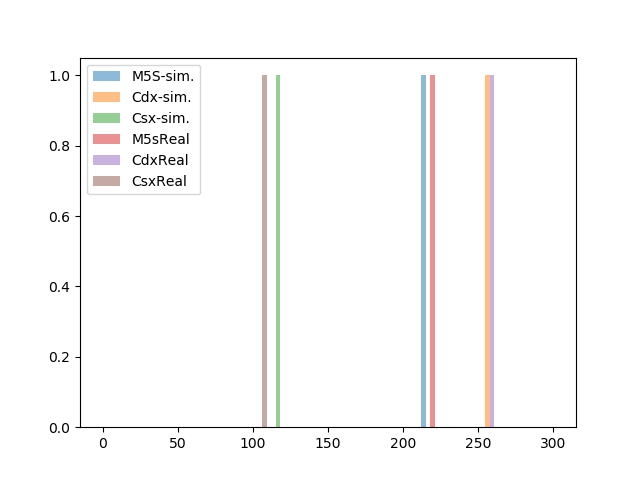
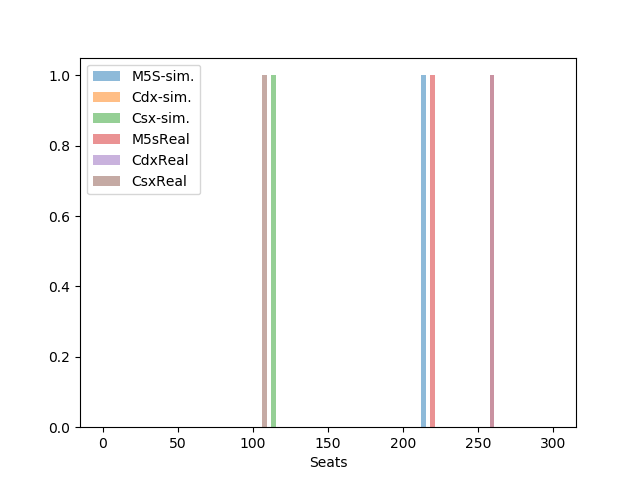
Final version of the code(only the comments miss)

Changed region(s): [[0.75, 0.1562, 0.7812, 0.9062], [0.4062, 0.1562, 0.4375, 0.9062], [0.4688, 0.9375, 0.5312, 1.0]]

diff --git a/Ising.py b/Ising.py
@@ -20,7 +20,7 @@ class Ising:
 	
 	def __init__(self,dimension,T=.1):
 		self.dimension = dimension
-		self.lattice  = np.array([[rd.choice([-0.5,0.5]) for i in range(dimension)]for j in range(dimension)])
+		self.lattice  = np.array([[rd.choice([-1,1]) for i in range(dimension)]for j in range(dimension)])
 		self.T = T
 
 	def Make_move(self):
@@ -58,10 +58,16 @@ class Ising:
 				if self.lattice[i,j]>0:
 					Lattice[i][j]=Label(bg='black',width=2,height=2)
 					Lattice[i][j].grid(row=i,column=j)
-		mainloop()			
+		mainloop()
+			
+	def show_evolution(self):
+		for i in range(10001):
+			self.Make_move()
+			if (i%2000 == 0):
+				self.print_lattice_GUI()
 				
 	def Abs_Tot_Magn(self):
-		return np.abs(2*sum(sum(self.lattice))/(self.dimension*self.dimension))
+		return np.abs(sum(sum(self.lattice))/(self.dimension*self.dimension))
 	
 	def Tot_Energy(self):
 		Tot_Energy = 0
@@ -69,34 +75,14 @@ class Ising:
 			for y in range(self.dimension):
 				single_spot_energy = self.lattice[(x+1)%self.dimension,y]+self.lattice[x,(y+1)%self.dimension]+self.lattice[(x-1)%self.dimension,y]+self.lattice[x,(y-1)%self.dimension]
 				Tot_Energy        += single_spot_energy
-		return Tot_Energy/4.		
+		return abs(Tot_Energy/4.)		
 				
-	def MontSim (self,Nsteps=100000):
+	def MontSim (self,Nsteps=20000):
 		for i in range(Nsteps):
 			self.Make_move()
 			
-			procedure = Nsteps/(i+1)	
-			if procedure  in list(range(100)):
-				print(self.Abs_Tot_Magn())
-				print("{:.2f}".format(float(i/Nsteps)*100),'%\n')
-				
-
-
-
-
-
-
-
-
-
-
-
-
-
-
-
-
-
-
-
+			#procedure = Nsteps/(i+1)	
+			#if procedure  in list(range(100)):
+				#print(self.Abs_Tot_Magn())
+				#print("{:.2f}".format(float(i/Nsteps)*100),'%\n')
 				

diff --git a/Electoral_Montecarlo.py b/Electoral_Montecarlo.py
@@ -8,14 +8,8 @@ Created on Wed Oct 30 17:12:33 2019
 
 import numpy as np
 Results2018={'Movimento 5 stelle':0.327,'Centrosinistra':0.22,'Centrodestra':0.37,'LeU':0.03}
-ResultsHyp ={'Movimento 5 stelle':0.18,'Centrosinistra':0.20,'Lega':0.35,'Centrodestra':0.15}
-
-
-
-
-import numpy as np
-Results2018={'Movimento 5 stelle':0.327,'Centrosinistra':0.22,'Centrodestra':0.37,'LeU':0.03}
-ResultsHyp ={'Movimento 5 stelle':0.18,'Centrosinistra':0.20,'Lega':0.35,'Centrodestra':0.15}
+ResultsHyp1 ={'Movimento 5 stelle':0.18,'Centrosinistra':0.20,'Lega':0.35,'Centrodestra':0.15}
+ResultsHyp2 ={'Centrosinistra':0.38,'Centrodestra':0.52}
 Seats2018  ={'Movimento 5 stelle':221,'Centrosinistra':109,'Centrodestra':260,'LeU':22} #excluding abroad seats
 
 
@@ -32,7 +26,7 @@ def max_key(d):
         
 
         
-def Fill_Seats(weight_maj = 0.37,weight_prop = 0.61,Results = ResultsHyp):   
+def Fill_Seats(weight_maj = 0.37,weight_prop = 0.61,Results = Results2018):   
     seats = {key:int(Results[key]*635*weight_prop)+int(Results[key]*(1-sum(list(Results.values())))) for key in list(Results.keys())}
     for i in range (int(635*weight_maj)):
         Resultscopy = Results.copy()

diff --git a/testing_election.py b/testing_election.py
@@ -12,7 +12,7 @@ import Electoral_Montecarlo
 
 Results2018={'Movimento 5 stelle':0.327,'Centrosinistra':0.22,'Centrodestra':0.37,'Leu':0.03}
 ResultsHyp ={'Movimento 5 stelle':0.18,'Centrosinistra':0.20,'Lega':0.35,'Centrodestra':0.15}
-Seats2018  ={'Movimento 5 stelle':221,'Centrosinistra':113,'Centrodestra':260,'LeU':14} #excluding abroad seats
+Seats2018  ={'Movimento 5 stelle':221,'Centrosinistra':113,'Centrodestra':260,'Leu':14} #excluding abroad seats
 
 def test_Number_iterations(Nsteps = 10000):
 	pi = float(4*(sum([1 for i in range(10000) if((np.random.rand()*2-1)**2+(np.random.rand()*2-1)**2<1)])/10000))
@@ -31,6 +31,11 @@ def test_max_key(d = Results2018):
 def test_simulation(a = rd.choice(list(Seats2018.keys())),d = Seats2018):
 	Simulation = Electoral_Montecarlo.Complete_Simulation()
 	assert np.abs(Simulation[a] - Seats2018[a])<10 #There's a little difference because of different method ripartition for the proportional part
-	
+
+def test_winning_seats(d = Results2018):
+	for key in (list(d.keys())):
+		assert not Electoral_Montecarlo.winning_min_seats(key,500)
+		
+		
 	
 	

diff --git a/main_ising.py b/main_ising.py
@@ -1,0 +1,40 @@
+# -*- coding: utf-8 -*-
+"""
+Created on Wed Nov 13 23:46:09 2019
+
+@author: Giulio
+"""
+
+import Ising
+import matplotlib.pylab as plt
+import numpy as np
+import random as rd
+
+
+ising = Ising.Ising(15)
+ising.show_evolution()
+
+
+Temperature    = [1.5+(0.025*i)for i in range(60)]
+Magnetizations = [] 
+Energies       = []
+for i in range(len(Temperature)):
+	
+	ising = Ising.Ising(15,Temperature[i])
+	ising.MontSim()
+	Magnetizations.append(ising.Abs_Tot_Magn())
+	Energies.append(np.abs(ising.Tot_Energy()))
+	
+
+plt.scatter(Temperature,Magnetizations)
+plt.title("Magnetization vs Temperature")
+plt.xlabel("Temperature(K)")
+plt.ylabel("Absolute Magnetization(Tesla)")
+plt.savefig('Magnetization_vs_Temperature.png')
+plt.close()
+plt.scatter(Temperature,Energies)
+plt.title('Energy vs Temperature')
+plt.xlabel('Temperature(K)')
+plt.ylabel('Energy')
+plt.savefig('Energy_vs_Temperature.png')
+plt.close()

diff --git a/Main_electoral.py b/Main_electoral.py
@@ -19,6 +19,7 @@ plt.hist(data['Centrosinistra'],bins,alpha= 0.5,label = 'Csx-sim.')
 plt.hist(Electoral_Montecarlo.Seats2018['Movimento 5 stelle'],bins,alpha = 0.5,label ='M5sReal')
 plt.hist(Electoral_Montecarlo.Seats2018['Centrodestra'],bins,alpha = 0.5,label ='CdxReal')
 plt.hist(Electoral_Montecarlo.Seats2018['Centrosinistra'],bins,alpha = 0.5,label ='CsxReal')
+plt.xlabel('Seats')
 plt.legend(loc='upper left')
 plt.savefig("Histogram-Confrontation.png")
 plt.close()
@@ -27,6 +28,7 @@ data = Electoral_Montecarlo.Possible_Results(10000)
 plt.hist(data['Movimento 5 stelle'],bins,label = 'M5S')
 plt.hist(data['Centrodestra'], bins, label='Cdx')
 plt.hist(data['Centrosinistra'],bins,label = 'Csx')
+plt.xlabel('Seats')
 plt.legend(loc='upper left')
 plt.savefig("Possible_outcome.png")
 plt.close()

diff --git a/Test_Ising.py b/Test_Ising.py
@@ -1,0 +1,30 @@
+# -*- coding: utf-8 -*-
+"""
+Created on Thu Nov 14 23:27:50 2019
+
+@author: Giulio
+"""
+
+import Ising
+import numpy as np
+import random as rd
+
+
+def test_lattice(ising = Ising.Ising(15)):
+	
+	for i in range(len(ising.lattice[0])):
+		
+		assert set(ising.lattice[i]) == {1,-1}
+
+
+def test_Mont_Move(ising = Ising.Ising(15)):
+	initial_magnetization = ising.Abs_Tot_Magn()
+	initial_energy        = ising.Tot_Energy()
+	ising.MontSim()
+	assert (ising.Abs_Tot_Magn()>=initial_magnetization and ising.Tot_Energy()>=initial_energy)
+
+
+def test_Simulation(ising = Ising.Ising(15,.1)):
+	ising.MontSim()
+	assert ising.Abs_Tot_Magn() == 1
+
